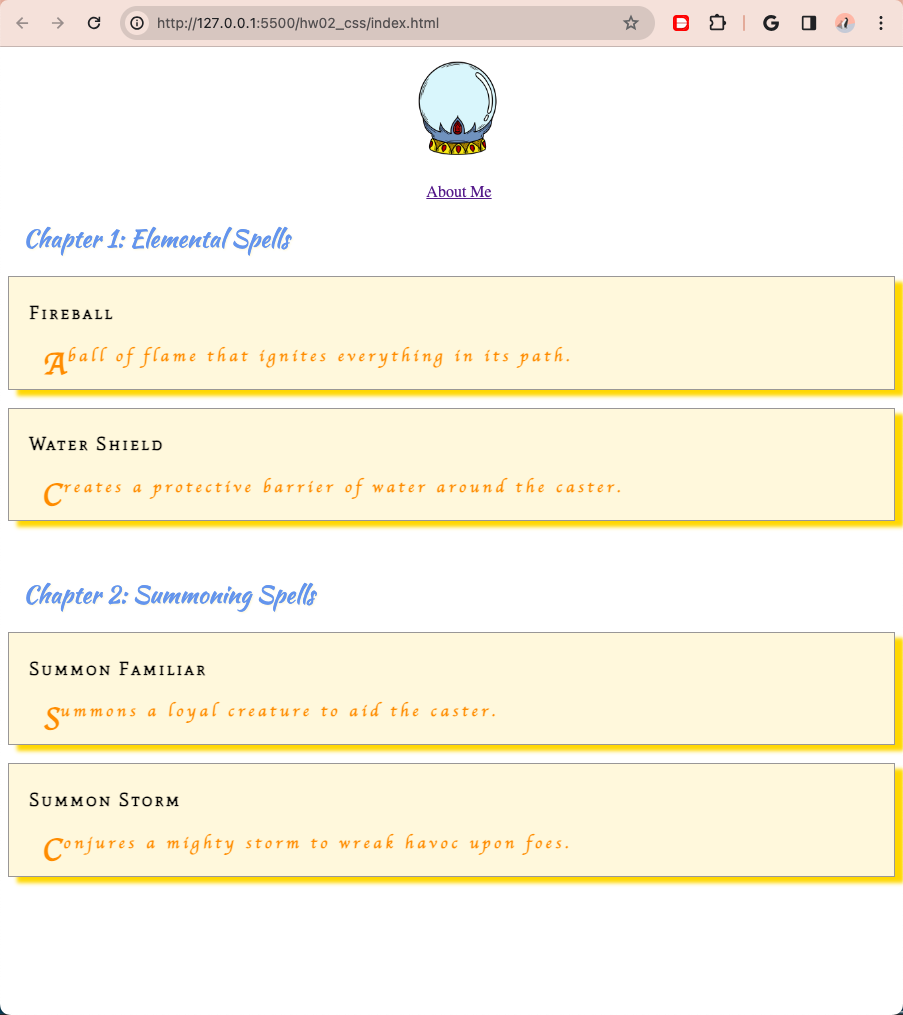
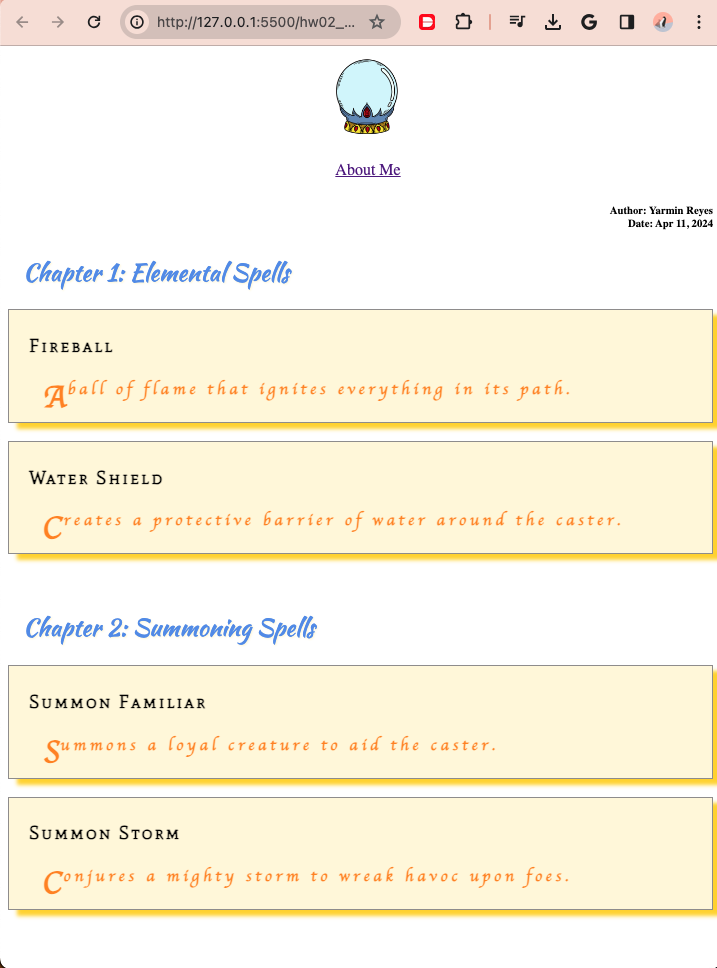
first commit

diff --git a/index.html b/index.html
@@ -20,6 +20,9 @@
         <nav id="nav_bar">
             <a href="/hw02_css/about_me2.html" target="_blank">About Me</a>
         </nav>
+        <section class="author">
+            <h6>Author: Yarmin Reyes<br>Date: Apr 11, 2024</h6>
+        </section>
     </header>
     <section>
     </section>

diff --git a/style.css b/style.css
@@ -48,3 +48,7 @@ div div {
 header {
     text-align: center;
 }
+
+header > section {
+    text-align: right;
+}
